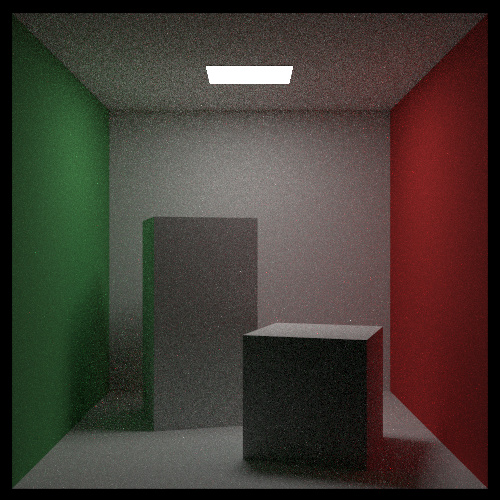
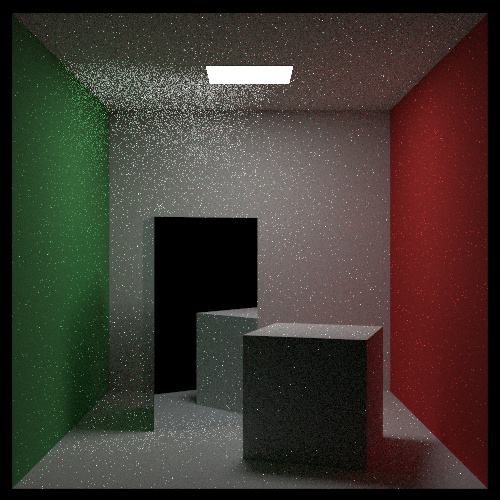
done sampling other material

diff --git a/src/object/prefabs.h b/src/object/prefabs.h
@@ -117,12 +117,12 @@ object_list cornell_box() {
       make_shared<xz_rectangle>(0, 555, 0, 555, 555, white, vec3d{0, -1, 0}));
   objects.add(make_shared<xy_rectangle>(0, 555, 0, 555, 555, white));
 
-  // shared_ptr<base_material> aluminum =
-  //     make_shared<metal>(color_rgb(0.8, 0.85, 0.88), 0.0);
-  // shared_ptr<base_object> box1 =
-  //     make_shared<box>(point3d(0, 0, 0), point3d(165, 330, 165), aluminum);
+  shared_ptr<base_material> aluminum =
+      make_shared<metal>(color_rgb(0.8, 0.85, 0.88), 0.0);
   shared_ptr<base_object> box1 =
-      make_shared<box>(point3d(0, 0, 0), point3d(165, 330, 165), white);
+      make_shared<box>(point3d(0, 0, 0), point3d(165, 330, 165), aluminum);
+  // shared_ptr<base_object> box1 =
+  //     make_shared<box>(point3d(0, 0, 0), point3d(165, 330, 165), white);
   box1 = make_shared<rotate_y>(box1, 15);
   box1 = make_shared<translate>(box1, vec3d(265, 0, 295));
   objects.add(box1);
@@ -133,7 +133,7 @@ object_list cornell_box() {
   box2 = make_shared<translate>(box2, vec3d(130, 0, 65));
   objects.add(box2);
 
-  // auto glass = make_shared<dielectric>(1.5);
+  auto glass = make_shared<dielectric>(1.5);
   // objects.add(make_shared<sphere>(point3d(190, 90, 190), 90, glass));
   return objects;
 }
